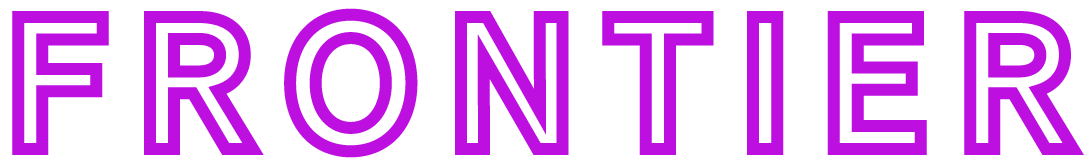
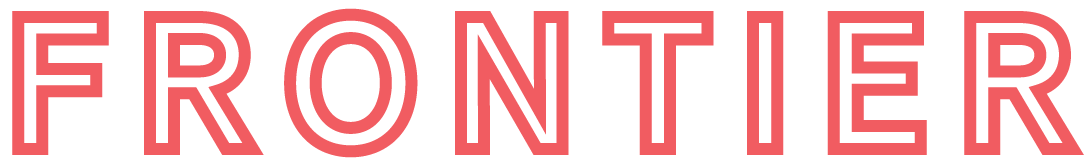
adding presenter images

diff --git a/v2/index.html b/v2/index.html
@@ -60,15 +60,55 @@
 		</ul>
 	</div>
 	<div id="images-holder">
-		<img src="img/JulietteCezzar.jpeg" id="image-1" class="random"></img>
-		<img src="img/MarcEnglish.jpg" id="image-2" class="random"></img>
-		<img src="img/AprilGreiman.jpg" id="image-3" class="random"></img>
-		<img src="img/RickGriffith.jpg" id="image-4" class="random"></img>
-		<img src="img/YarrowKraner.jpg" id="image-5" class="random"></img>
-		<img src="img/SakiMafundikwa.jpg" id="image-6" class="random"></img>
-		<img src="img/bozeman.jpg" id="image-7" class="random" /></img>
-		<img src="img/yellowstone.jpg" id="image-8" class="random" /></img>
-		<img src="img/msu.jpg" id="image-9" class="random" /></img>
+		<img src="img/JulietteCezzar.jpeg" id="image-1" class="random" />
+		<img src="img/MarcEnglish.jpg" id="image-2" class="random" />
+		<img src="img/AprilGreiman.jpg" id="image-3" class="random" />
+		<img src="img/RickGriffith.jpg" id="image-4" class="random" />
+		<img src="img/YarrowKraner.jpg" id="image-5" class="random" />
+		<img src="img/SakiMafundikwa.jpg" id="image-6" class="random" />
+		<img src="img/bozeman.jpg" id="image-7" class="random" />
+		<img src="img/yellowstone.jpg" id="image-8" class="random" />
+		<img src="img/msu.jpg" id="image-9" class="random" />
+
+		<!-- speakers -->
+		<img src="img/speakers/aggietoppins.jpeg" id="aggietoppins" class="random-speaker" />
+		<img src="img/speakers/alisonpopp.jpg" id="alisonpopp" class="random-speaker" />		
+		<img src="img/speakers/anitranot.jpg" id="anitranot" class="random-speaker" />				
+		<img src="img/speakers/AnonymousFails.jpg" id="AnonymousFails" class="random-speaker" />				
+		<img src="img/speakers/Armstrong_Helen.jpeg" id="Armstrong_Helen" class="random-speaker" />				
+		<img src="img/speakers/benvandyke.jpg" id="benvandyke" class="random-speaker" />				
+		<img src="img/speakers/bighugetweet.jpeg" id="bighugetweet" class="random-speaker" />				
+		<img src="img/speakers/CCA_SP.png" id="CCA_SP" class="random-speaker" />				
+		<img src="img/speakers/cccardsdesign.jpg" id="cccardsdesign" class="random-speaker" />				
+		<img src="img/speakers/cdaein.jpeg" id="cdaein" class="random-speaker" />				
+		<img src="img/speakers/crashdanger.png" id="crashdanger" class="random-speaker" />				
+		<img src="img/speakers/Dans_McC.jpg" id="Dans_McC" class="random-speaker" />				
+		<img src="img/speakers/dimitrytetin.jpg" id="dimitrytetin" class="random-speaker" />				
+		<img src="img/speakers/empathydesignnz.jpeg" id="empathydesignnz" class="random-speaker" />				
+		<img src="img/speakers/ErinWhikehart.jpg" id="ErinWhikehart" class="random-speaker" />				
+		<img src="img/speakers/ferrisdsgn.jpg" id="ferrisdsgn" class="random-speaker" />				
+		<img src="img/speakers/fugitiveinks.png" id="fugitiveinks" class="random-speaker" />				
+		<img src="img/speakers/garyrozanc.jpeg" id="garyrozanc" class="random-speaker" />				
+		<img src="img/speakers/gfkintervention.jpg" id="gfkintervention" class="random-speaker" />				
+		<img src="img/speakers/gonzalescrisp.jpg" id="gonzalescrisp" class="random-speaker" />				
+		<img src="img/speakers/iamhanahan.png" id="iamhanahan" class="random-speaker" />				
+		<img src="img/speakers/jackhenrie.png" id="jackhenrie" class="random-speaker" />				
+		<img src="img/speakers/jaymargalus.jpeg" id="jaymargalus" class="random-speaker" />				
+		<img src="img/speakers/jessicajacobs.jpeg" id="jessicajacobs" class="random-speaker" />				
+		<img src="img/speakers/khepworth.png" id="khepworth" class="random-speaker" />				
+		<img src="img/speakers/leannemwagner.jpg" id="leannemwagner" class="random-speaker" />				
+		<img src="img/speakers/meagdee.jpeg" id="meagdee" class="random-speaker" />				
+		<img src="img/speakers/merryspaniel.jpeg" id="merryspaniel" class="random-speaker" />				
+		<img src="img/speakers/mgoldst.jpeg" id="mgoldst" class="random-speaker" />				
+		<img src="img/speakers/mikejoosse.jpeg" id="mikejoosse" class="random-speaker" />				
+		<img src="img/speakers/multichad.jpeg" id="multichad" class="random-speaker" />				
+		<img src="img/speakers/ObserveREACT.jpg" id="ObserveREACT" class="random-speaker" />				
+		<img src="img/speakers/randygregoryII.jpg" id="randygregoryII" class="random-speaker" />				
+		<img src="img/speakers/rebeccateg.jpeg" id="rebeccateg" class="random-speaker" />				
+		<img src="img/speakers/rnbush.jpeg" id="rnbush" class="random-speaker" />				
+		<img src="img/speakers/unsoldstudio.png" id="unsoldstudio" class="random-speaker" />				
+		<img src="img/speakers/zacharykaiser.jpeg" id="zacharykaiser" class="random-speaker" />						
+
 	</div>
 
 	<div id="allcontainer" class="transparent">

diff --git a/v2/css/style.css b/v2/css/style.css
@@ -460,7 +460,7 @@ p.note {
 
 .location-title{
 	flex-basis: 100%;
-	margin: 0 1.5%;
+	margin: 10% 1.5% 0;
 	vertical-align: top;
 
 }
@@ -570,13 +570,18 @@ filter: grayscale(80%);*/
 	opacity: .35;
 }
 
-#images-holder img.hover {
+#images-holder img.random-speaker{
+	opacity: 0;
+}
+
+#images-holder img.hover, #images-holder img.random-speaker.hover {
 	opacity: 1;
 	-webkit-filter: blur(0px);
 	filter: blur(0px);
 
 	z-index: 100000;
 }
+
 
 /* image sizes */
 
@@ -605,7 +610,7 @@ filter: grayscale(80%);*/
 
 /* image arrangement */
 
-.image-pos-1, .image-pos-2, .image-pos-3, .image-pos-4, .image-pos-5, .image-pos-6, .image-pos-7, .image-pos-8{
+.image-pos-1, .image-pos-2, .image-pos-3, .image-pos-4, .image-pos-5, .image-pos-6, .image-pos-7, .image-pos-8, .image-pos-9, .image-pos-10, .image-pos-11, .image-pos-12, .image-pos-13, .image-pos-14, .image-pos-15, .image-pos-16{
 	position: absolute;
 }
 
@@ -663,6 +668,34 @@ filter: grayscale(80%);*/
 	top: 150px;
 	left: 150px;
 }
+
+.image-pos-12 {
+	top: 350px;
+	left: 190px;
+}
+
+.image-pos-13 {
+	right: 350px;
+	bottom: 190px;
+}
+
+.image-pos-14 {
+	top: 200px;
+	right: 100px;
+}
+
+.image-pos-15 {
+	bottom: 350px;
+	left: 390px;
+}
+
+.image-pos-16 {
+	top: 50px;
+	right: 50px;
+}
+
+
+
 
 
 
@@ -772,7 +805,7 @@ filter: grayscale(80%);*/
     top: 6px;
     height: 4px;
     z-index: 200;
-    background-color: #bd10e0;
+    background-color: #f15c61;
 }
 
 .menubar2{
@@ -781,7 +814,7 @@ filter: grayscale(80%);*/
     height: 4px;
     top: 16px;
     z-index: 200;
-    background-color: #bd10e0;
+    background-color: #f15c61;
 }
 
 .menubar3{
@@ -790,7 +823,7 @@ filter: grayscale(80%);*/
     height: 4px;
     bottom: 0px;
     z-index: 200;
-    background-color: #bd10e0;
+    background-color: #f15c61;
 }
 
 .menubarClose1{
@@ -799,7 +832,7 @@ filter: grayscale(80%);*/
 	height:4px;
 	z-index: 200;
 	top:15px;
-	background-color: #bd10e0;
+	background-color: #f15c61;
 	-webkit-transform: rotate(45deg);  /* Chrome, Safari 3.1+ */
 	-moz-transform: rotate(45deg);  /* Firefox 3.5-15 */
 	-ms-transform: rotate(45deg);  /* IE 9 */
@@ -813,7 +846,7 @@ filter: grayscale(80%);*/
 	height:4px;
 	top:15px;
 	z-index: 200;
-	background-color: #bd10e0;
+	background-color: #f15c61;
 	-webkit-transform: rotate(-45deg);  /* Chrome, Safari 3.1+ */
 	-moz-transform: rotate(-45deg);  /* Firefox 3.5-15 */
 	-ms-transform: rotate(-45deg);  /* IE 9 */

diff --git a/v2/js/script.js b/v2/js/script.js
@@ -98,7 +98,7 @@ $(document).ready(function() {
 		});
 	});
 
-// active scroll mobile
+	// active scroll mobile
 	$(window).scroll(function() {
 
 		var position = $(this).scrollTop();
@@ -139,6 +139,7 @@ $(document).ready(function() {
 
 	// array for random sizes
 	var sizes = [1, 2, 3, 4];
+	var positions = [1, 2, 3, 4, 5, 6, 7, 8, 9, 10, 11, 12, 13, 14, 15, 16];
 
 	// apply image and position randomly
 	$('.random').each(function() {
@@ -146,8 +147,22 @@ $(document).ready(function() {
 		$(this).addClass('image-size-' + sizes[~~(Math.random()*sizes.length)]);
 	});
 
-	if ( isMobile() ) {
-	}
+
+	// apply image and position randomly to speakers images
+	$('.random-speaker').each(function(){
+		$(this).addClass('image-pos-' + positions[~~(Math.random()*sizes.length)]);
+		$(this).addClass('image-size-' + sizes[~~(Math.random()*sizes.length)]);
+	});
+
+	$(document).on('mouseenter', '.image-hover', function(){
+        var image = $(this).attr("data-image");
+		$('#'+image).addClass('hover');
+	});
+
+	$(document).on('mouseleave', '.image-hover', function(){
+        var image = $(this).attr("data-image");
+			$('#'+image).removeClass('hover');
+	});
 
 	// expand talks to show full description
 
@@ -174,13 +189,6 @@ $(document).ready(function() {
 		Stickyfill.add(stickyElements[i]);
 	}
 
-	$('.image-hover').hover(function() {
-		var image = $(this).attr("data-image");
-		$('#'+image).addClass('hover');
-	}, function() {
-		var image = $(this).attr("data-image");
-		$('#'+image).removeClass('hover');
-	});
 
 
 	// get talks description
@@ -196,9 +204,17 @@ $(document).ready(function() {
 		var entry = data.feed.entry;
 
 		$(entry).each(function(){
+			
+			//remove @ from social media handle
+			var socialhandle = this.gsx$social1.$t
+			var cleansocialhandle = socialhandle.replace('@','');
+			alert(cleansocialhandle);
+
 			// Column names are name, age, etc.
 			$('#people').prepend(
-			'<div class="talk-contain wide"><a id="expand"><p>+</p></a><ul class="talk"><li class="title">'
+			'<div class="talk-contain wide"><a id="expand"><p>+</p></a><ul class="talk"><li data-image="'
+			+cleansocialhandle+
+			'" class="title image-hover">'
 			+this.gsx$title.$t+
 			'</li></ul><ul class="details hide"><li class="presenter">'
 			+this.gsx$name1.$t+'</li><li class="institution">'+this.gsx$institution1.$t+
